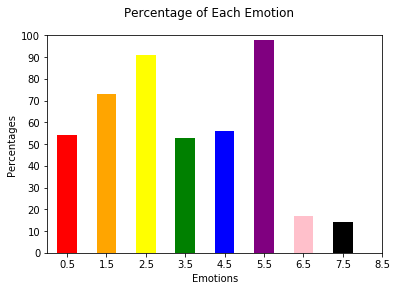
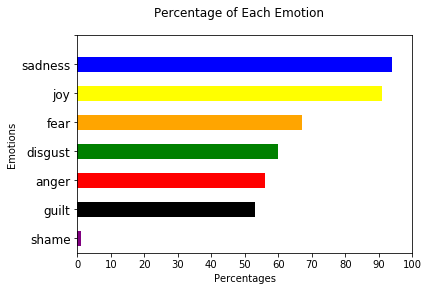
Added updated plotting

diff --git a/plotting_emotions.py b/plotting_emotions.py
@@ -1,0 +1,55 @@
+# -*- coding: utf-8 -*-
+"""
+Created on Sat Sep  9 00:28:33 2017
+
+@author: Saniyah
+"""
+import random, operator
+import matplotlib.pyplot as plt
+import matplotlib.patches as patches
+import numpy as np
+
+def getColor(s):
+    color_d = {'disgust':'green', 
+              'shame':'purple',
+              'sadness':'blue',
+              'anger':'red',
+              'fear':'orange',
+              'joy':'yellow',
+              'guilt':'black'}
+    color_ls = ['green', 'purple', 'blue', 'red', 'orange', 'yellow', 'black', 'pink', 'gray']
+    if s in color_d:
+        return color_d[s]
+    else:
+        return random.choice(color_ls)
+
+# dict is a dictionary of emotions to integer plotting values
+def plot_emotions(dic, save):
+    plt.figure(1)
+    plt.xticks(np.arange(0, 110, 10))
+    y = []
+    labels = []
+    i = 0.5
+    sorted_x = sorted(dic.items(), key=operator.itemgetter(1))
+    for key, value in sorted_x: 
+        ax = plt.gcf().gca()
+        ax.add_patch(patches.Rectangle((0,i-.25), value, 0.5, facecolor=getColor(key)))
+        y.append(i)
+        labels.append(key)
+        i += 1.0
+    y.append(i)
+    plt.xlabel('Percentages')
+    plt.ylabel('Emotions')
+    plt.yticks(y)
+    ax.set_yticklabels(labels, rotation='horizontal', fontsize=12)
+    plt.suptitle('Percentage of Each Emotion')
+    plt.savefig(save + '.png', bbox_inches='tight')
+    plt.show()
+    
+rand = {}
+y_ticks_labels = ['disgust', 'shame', 'sadness', 'anger', 'fear', 'joy', 'guilt']
+for x in range(7):
+    num = random.choice(range(100))
+    rand.update({y_ticks_labels[x]:num})
+print (rand)
+plot_emotions(rand, 'testing')
